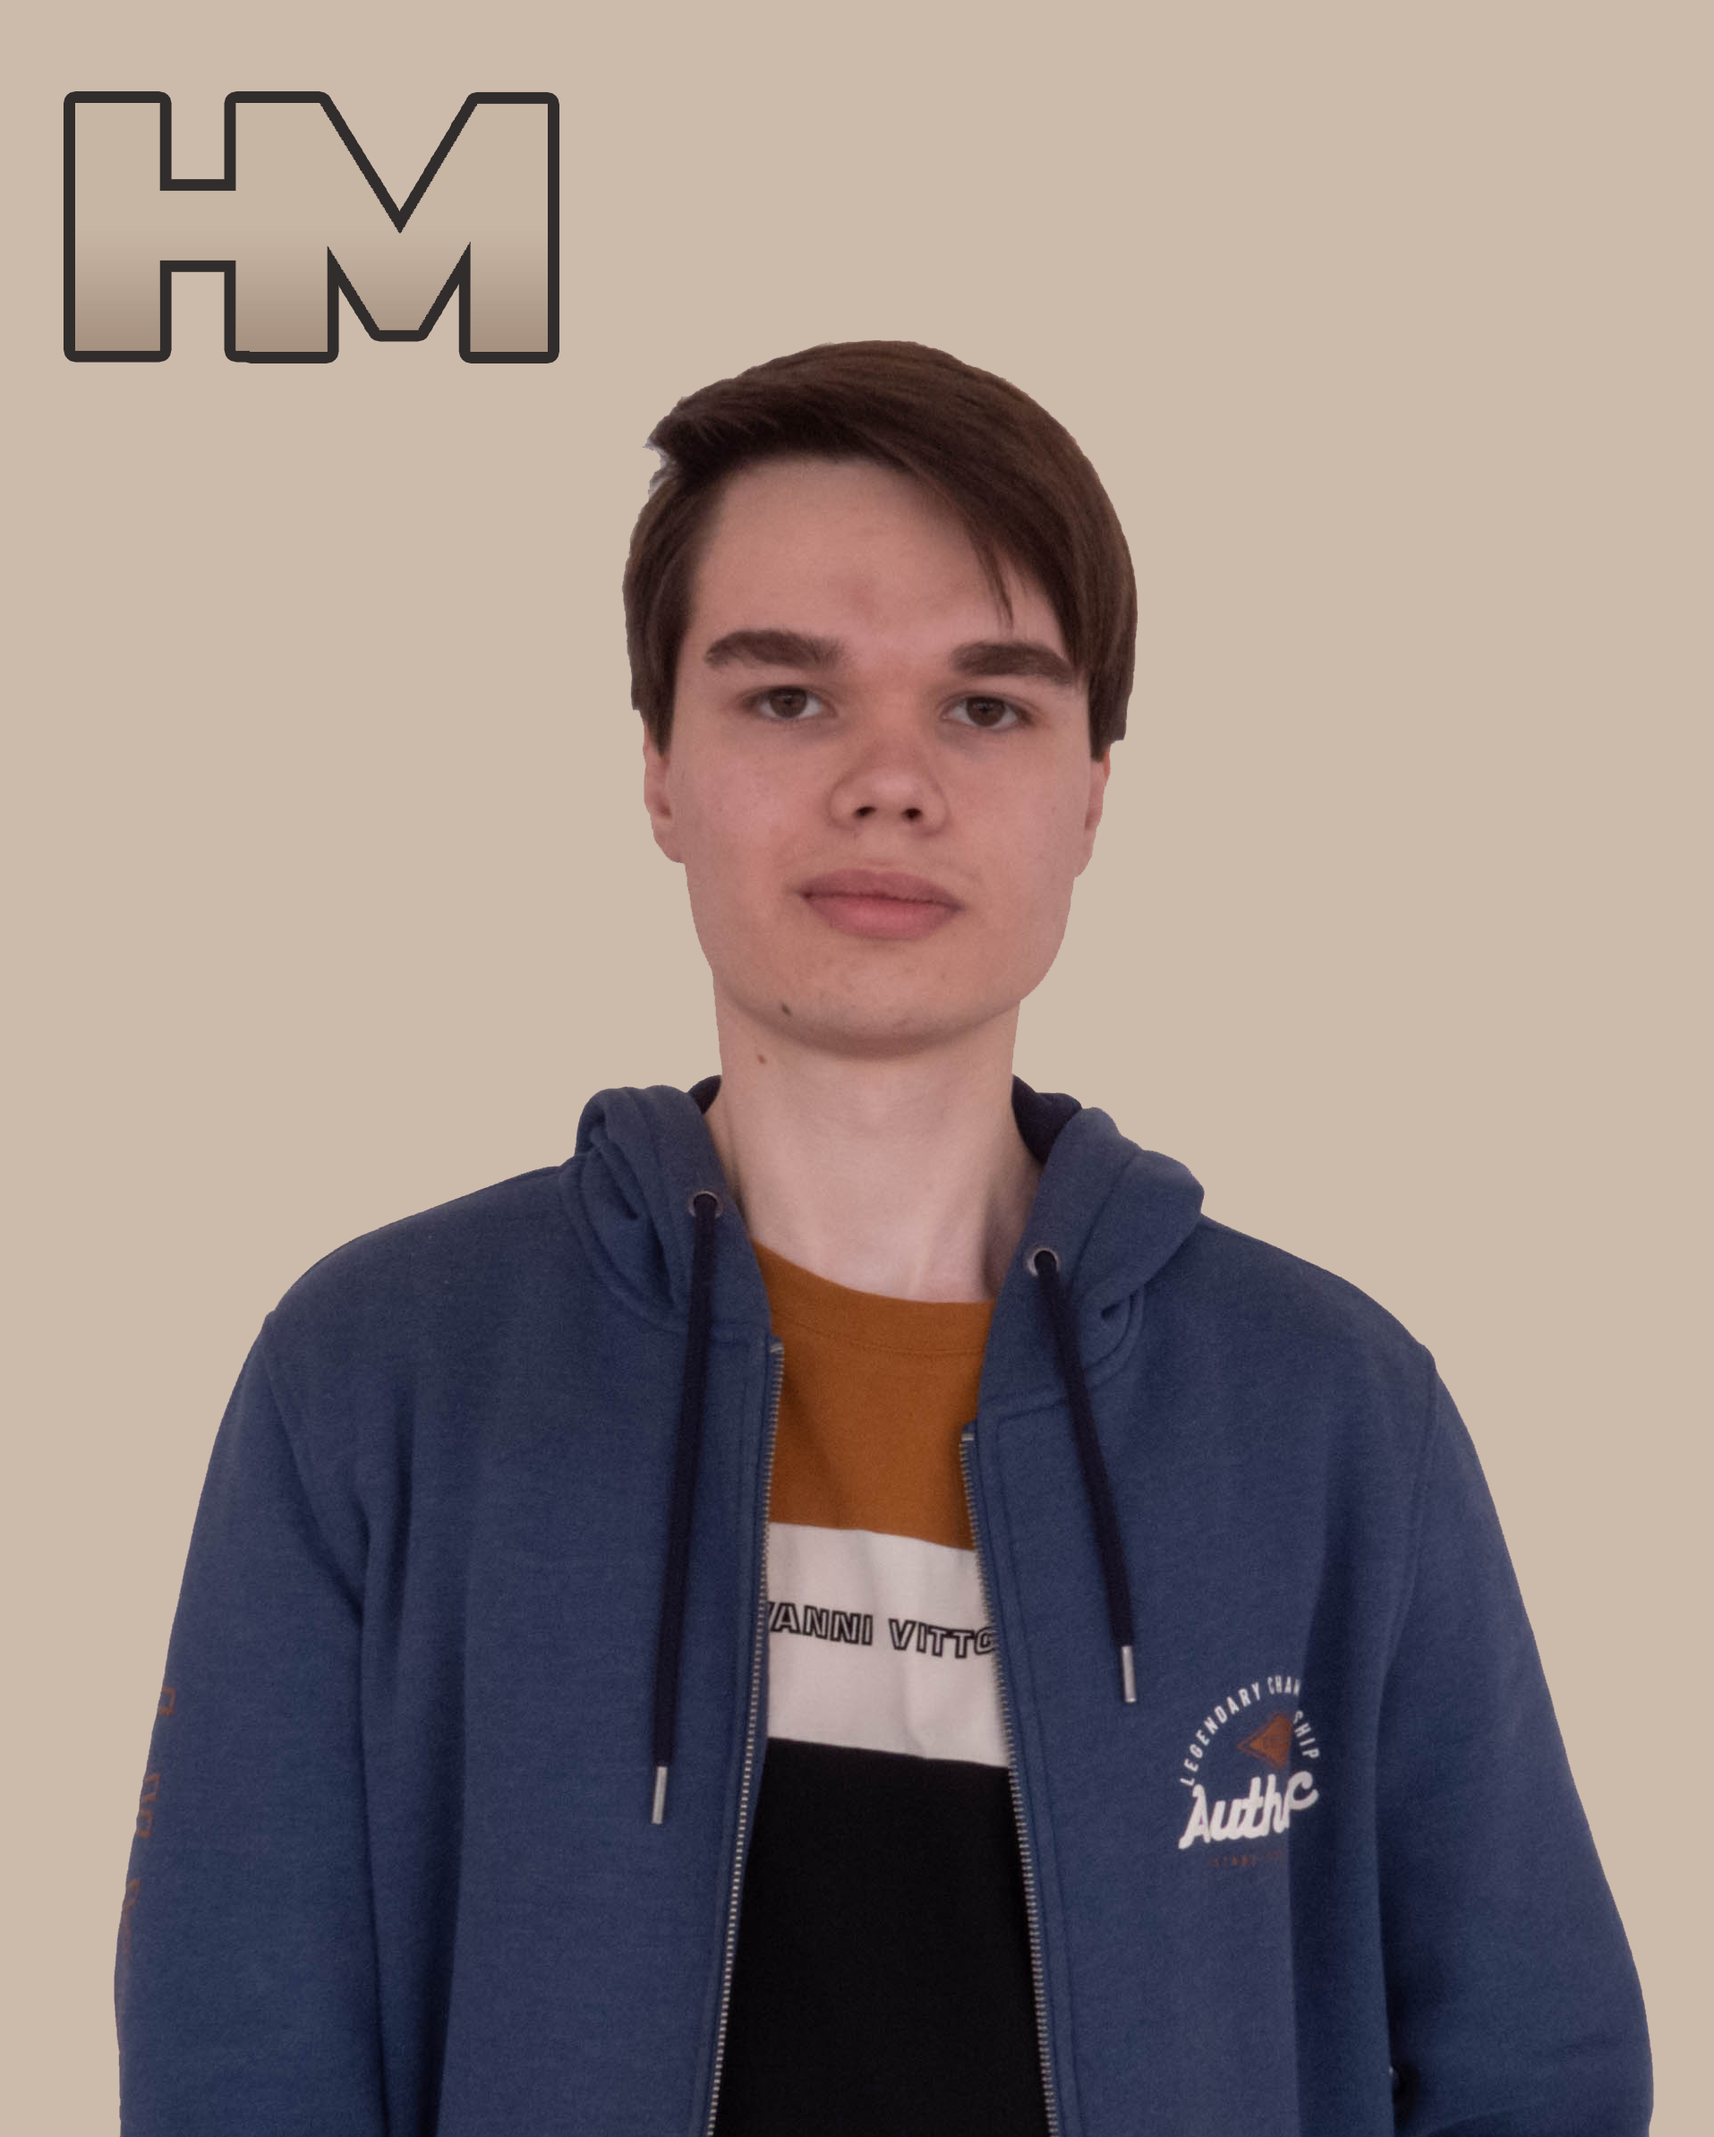
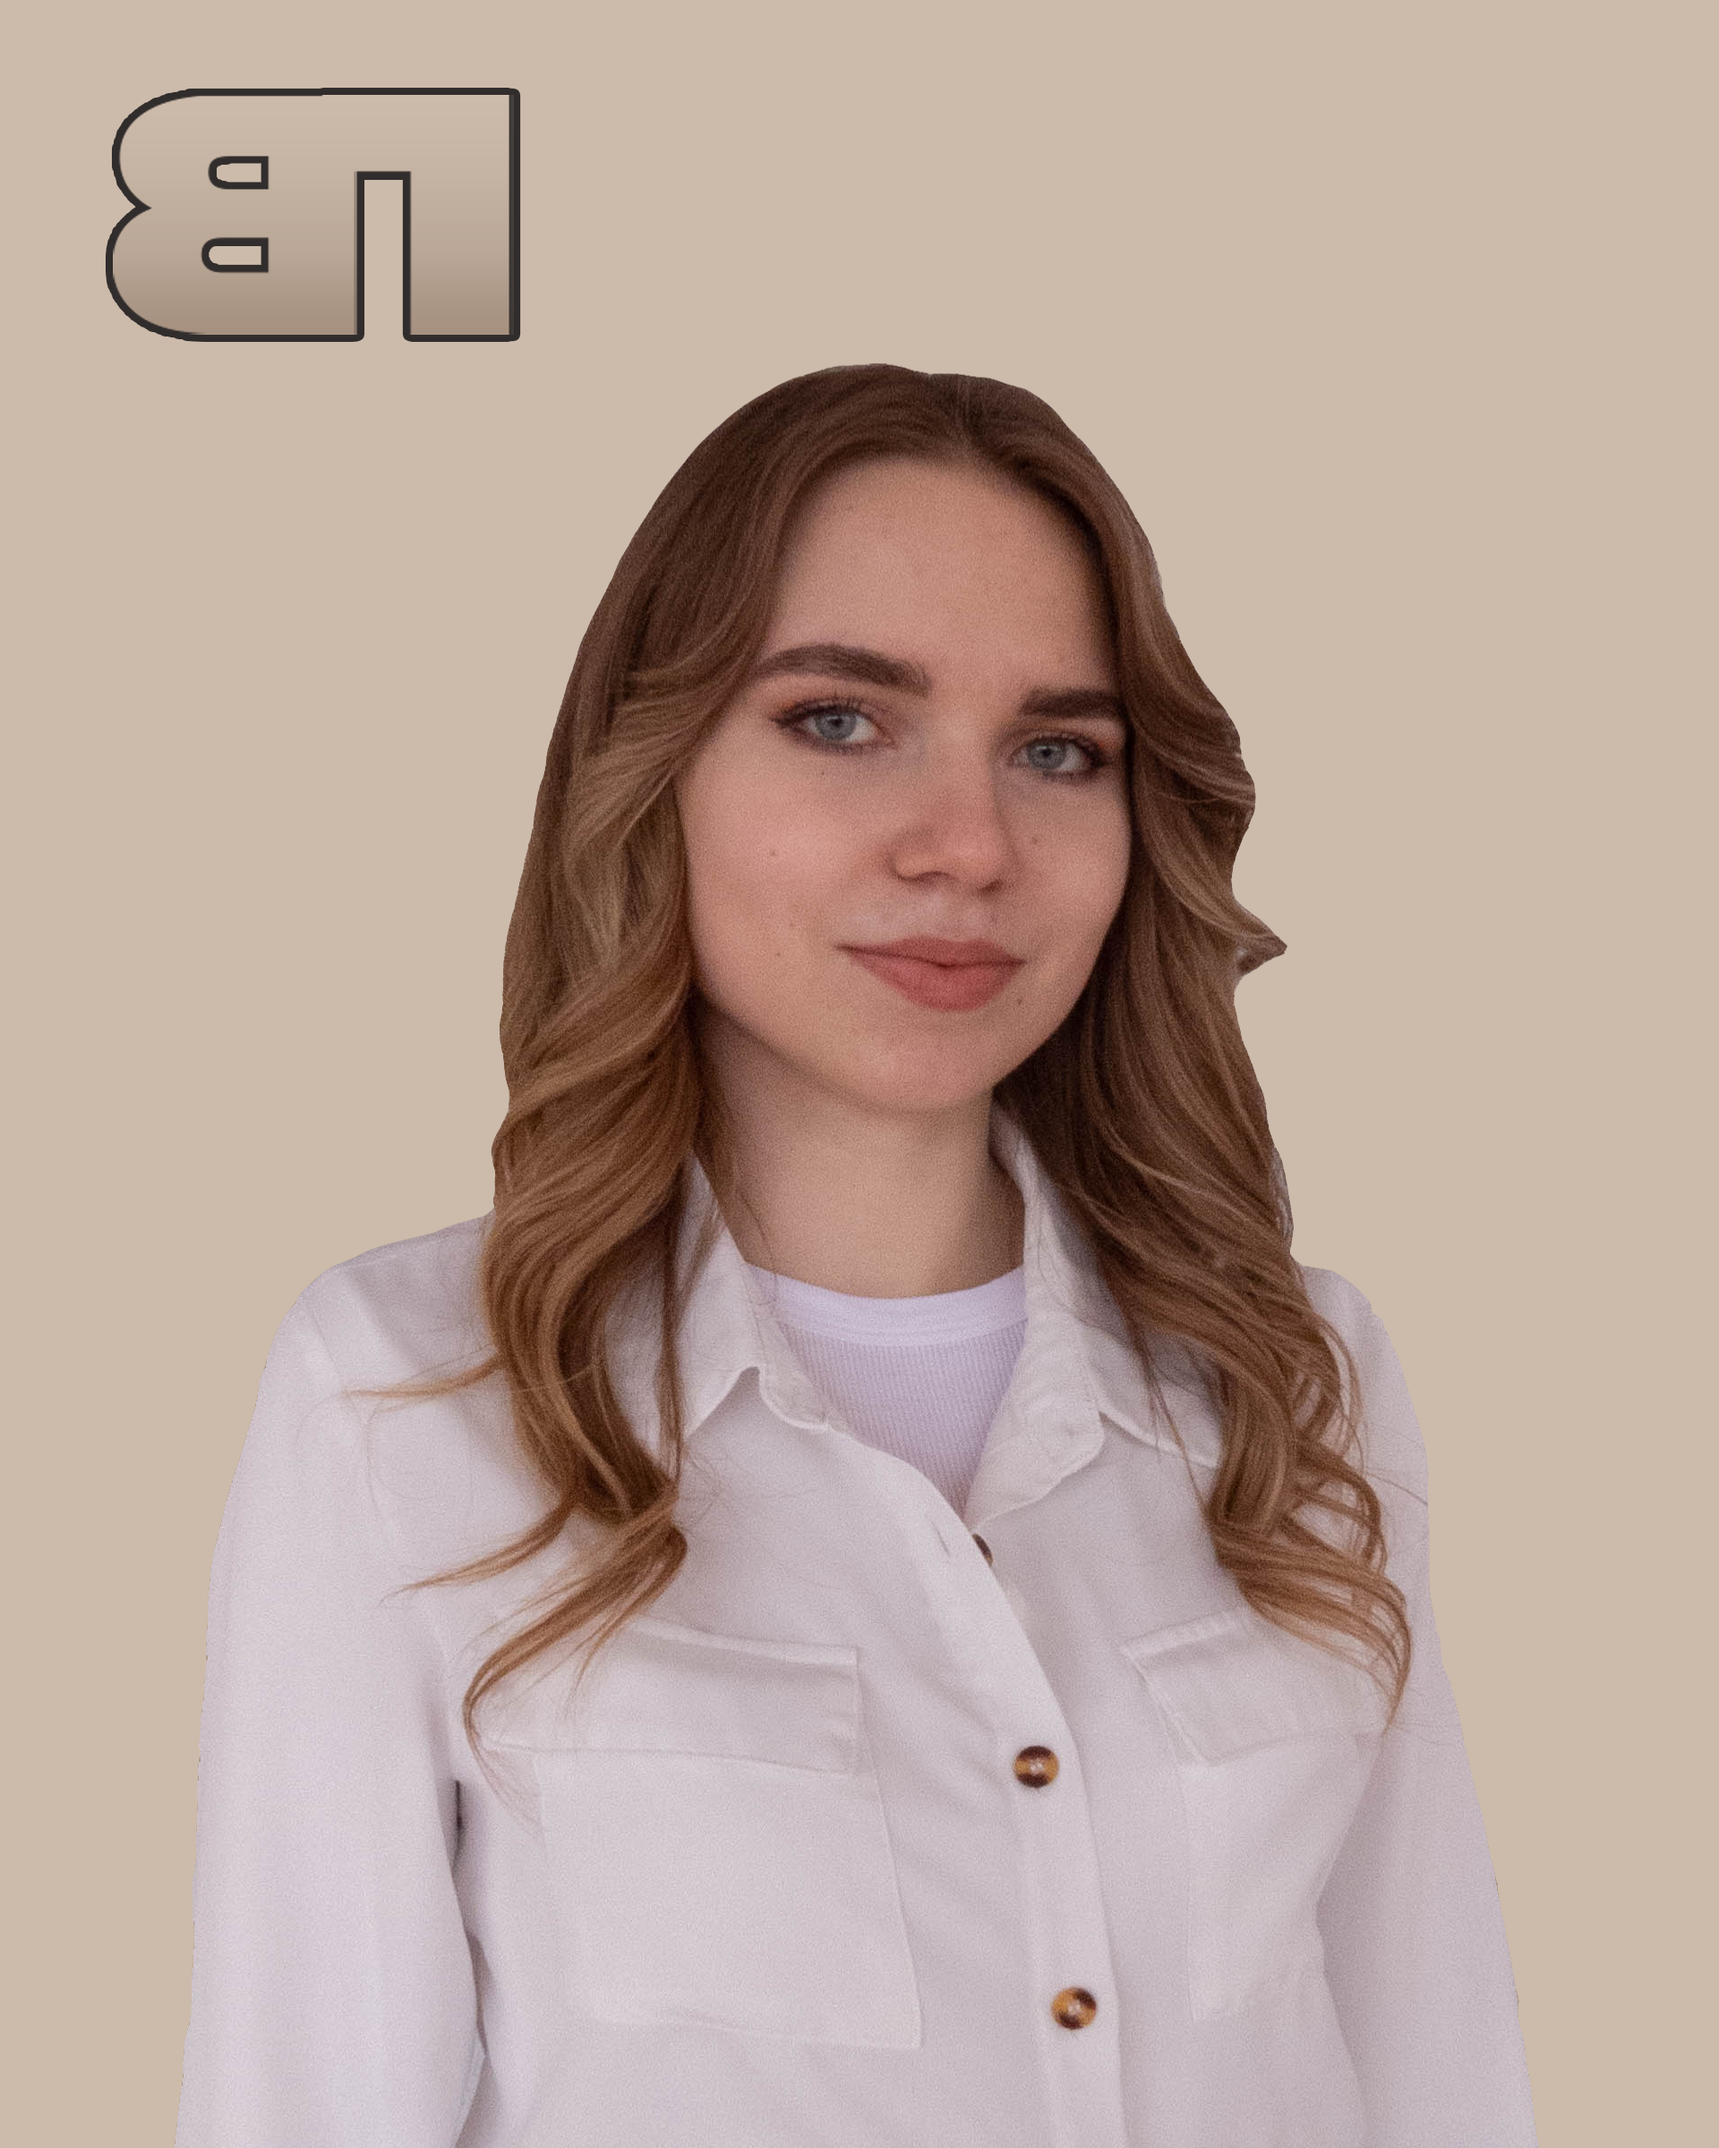
правки

diff --git a/index.html b/index.html
@@ -12,26 +12,22 @@
     <link rel="stylesheet" type="text/css" href="assets/css/utils.css">
     <link rel="stylesheet" type="text/css" href="assets/css/style.css">
 
-    <meta name="description" content="HisMemory. Ваша память - наша история" />
-    <meta name="keywords" content="HisMemory. Ваша память - наша история" />
-    <meta name="google" content="notranslate" />
-
     <link rel="apple-touch-icon" sizes="180x180" href="apple-touch-icon.png">
     <link rel="icon" type="image/png" sizes="32x32" href="favicon-32x32.png">
     <link rel="icon" type="image/png" sizes="16x16" href="favicon-16x16.png">
     <link rel="manifest" href="site.webmanifest">
-    <link rel="mask-icon" href="safari-pinned-tab.svg" color="#454545">
-    <meta name="msapplication-TileColor" content="#2b5797">
+    <link rel="mask-icon" href="safari-pinned-tab.svg" color="#737373">
+    <meta name="msapplication-TileColor" content="#00aba9">
     <meta name="theme-color" content="#ffffff">
 
-    <title>Historycal memory</title>
+    <title>Выписка из прошлого</title>
 </head>
 <body>
     
 <header class="header" id="header">
     <div class="container">
         <div class="header__inner">
-            <div class="header__logo">Historycal memory</div>
+            <div class="header__logo">Выписка из прошлого</div>
 
             <nav class="nav" id="nav">
                 <a href="#about" class="nav__link">О нас</a>
@@ -54,7 +50,7 @@
 
     <section class="intro" id="intro">
         <div class="intro__inner">
-            <h1 class="intro__title">HisMemory</h1>
+            <h1 class="intro__title">ВысПро</h1>
             <p class="intro__subtitle">Ваша память - наша история</p>
         </div>
     </section>
@@ -117,28 +113,28 @@
                 <h2 class="title">Наша команда</h2>
                 <div class="team__photos">
                     <div class="team__photo__item">
-                        <img src="assets/img/photo-3.png" alt="photo" class="photo">
+                        <img src="assets/img/photo-2.png" alt="photo" class="photo">
                         <div class="photos__info">
                             <div class="photos__title">Михаил</div>
                             <div class="photos__text">Руководитель</div>
                         </div>
                     </div>
                     <div class="team__photo__item">
-                        <img src="assets/img/photo-1.png" alt="photo" class="photo">
+                        <img src="assets/img/photo-4.png" alt="photo" class="photo">
                         <div class="photos__info">
                             <div class="photos__title">Ксения</div>
                             <div class="photos__text">Администратор, дизайнер</div>
                         </div>
                     </div>
                     <div class="team__photo__item">
-                        <img src="assets/img/photo-2.png" alt="photo" class="photo">
+                        <img src="assets/img/photo-1.png" alt="photo" class="photo">
                         <div class="photos__info">
                             <div class="photos__title">Дмитрий</div>
                             <div class="photos__text">Аналитик</div>
                         </div>
                     </div>
                     <div class="team__photo__item">
-                        <img src="assets/img/photo-4.png" alt="photo" class="photo">
+                        <img src="assets/img/photo-3.png" alt="photo" class="photo">
                         <div class="photos__info">
                             <div class="photos__title">Дмитрий</div>
                             <div class="photos__text">Ответственный за сбор данных</div>
@@ -225,7 +221,7 @@
         <hr>
         <div class="footer__inner">
             <div class="footer__left">
-                <a class="nav__link" href="#intro">Historycal memory</a>
+                <a class="nav__link" href="#intro">Выписка из прошлого</a>
             </div>
             <div class="footer__right">
                 <div class="footer__links">

diff --git a/login.html b/login.html
@@ -11,19 +11,15 @@
     <link rel="stylesheet" type="text/css" href="assets/css/index.css">
     <link rel="stylesheet" type="text/css" href="assets/css/login.css">
 
-    <meta name="description" content="HisMemory. Ваша память - наша история" />
-    <meta name="keywords" content="HisMemory. Ваша память - наша история" />
-    <meta name="google" content="notranslate" />
-
     <link rel="apple-touch-icon" sizes="180x180" href="apple-touch-icon.png">
     <link rel="icon" type="image/png" sizes="32x32" href="favicon-32x32.png">
     <link rel="icon" type="image/png" sizes="16x16" href="favicon-16x16.png">
     <link rel="manifest" href="site.webmanifest">
-    <link rel="mask-icon" href="safari-pinned-tab.svg" color="#454545">
-    <meta name="msapplication-TileColor" content="#2b5797">
+    <link rel="mask-icon" href="safari-pinned-tab.svg" color="#737373">
+    <meta name="msapplication-TileColor" content="#00aba9">
     <meta name="theme-color" content="#ffffff">
 
-    <title>Historycal memory</title>
+    <title>Выписка из прошлого</title>
 </head>
 <body>
 <main class="page">
@@ -52,7 +48,7 @@
         <hr>
         <div class="footer__inner">
             <div class="footer__left">
-                <a class="nav__link" href="index.html">Historycal memory</a>
+                <a class="nav__link" href="index.html">Выписка из прошлого</a>
             </div>
             <div class="footer__right">
                 <div class="footer__links">

diff --git a/account.html b/account.html
@@ -11,26 +11,22 @@
     <link rel="stylesheet" type="text/css" href="assets/css/index.css">
     <link rel="stylesheet" type="text/css" href="assets/css/account.css">
 
-    <meta name="description" content="HisMemory. Ваша память - наша история" />
-    <meta name="keywords" content="HisMemory. Ваша память - наша история" />
-    <meta name="google" content="notranslate" />
-
     <link rel="apple-touch-icon" sizes="180x180" href="apple-touch-icon.png">
     <link rel="icon" type="image/png" sizes="32x32" href="favicon-32x32.png">
     <link rel="icon" type="image/png" sizes="16x16" href="favicon-16x16.png">
     <link rel="manifest" href="site.webmanifest">
-    <link rel="mask-icon" href="safari-pinned-tab.svg" color="#454545">
-    <meta name="msapplication-TileColor" content="#2b5797">
+    <link rel="mask-icon" href="safari-pinned-tab.svg" color="#737373">
+    <meta name="msapplication-TileColor" content="#00aba9">
     <meta name="theme-color" content="#ffffff">
 
-    <title>Historycal memory</title>
+    <title>Выписка из прошлого</title>
 </head>
 <body>
 
 <header class="header" id="header">
     <div class="container">
         <div class="header__inner">
-            <div class="header__logo">Historycal memory</div>
+            <div class="header__logo">Выписка из прошлого</div>
 
             <nav class="nav" id="nav">
                 <a href="index.html" class="nav__link">Выйти из аккаунта</a>
